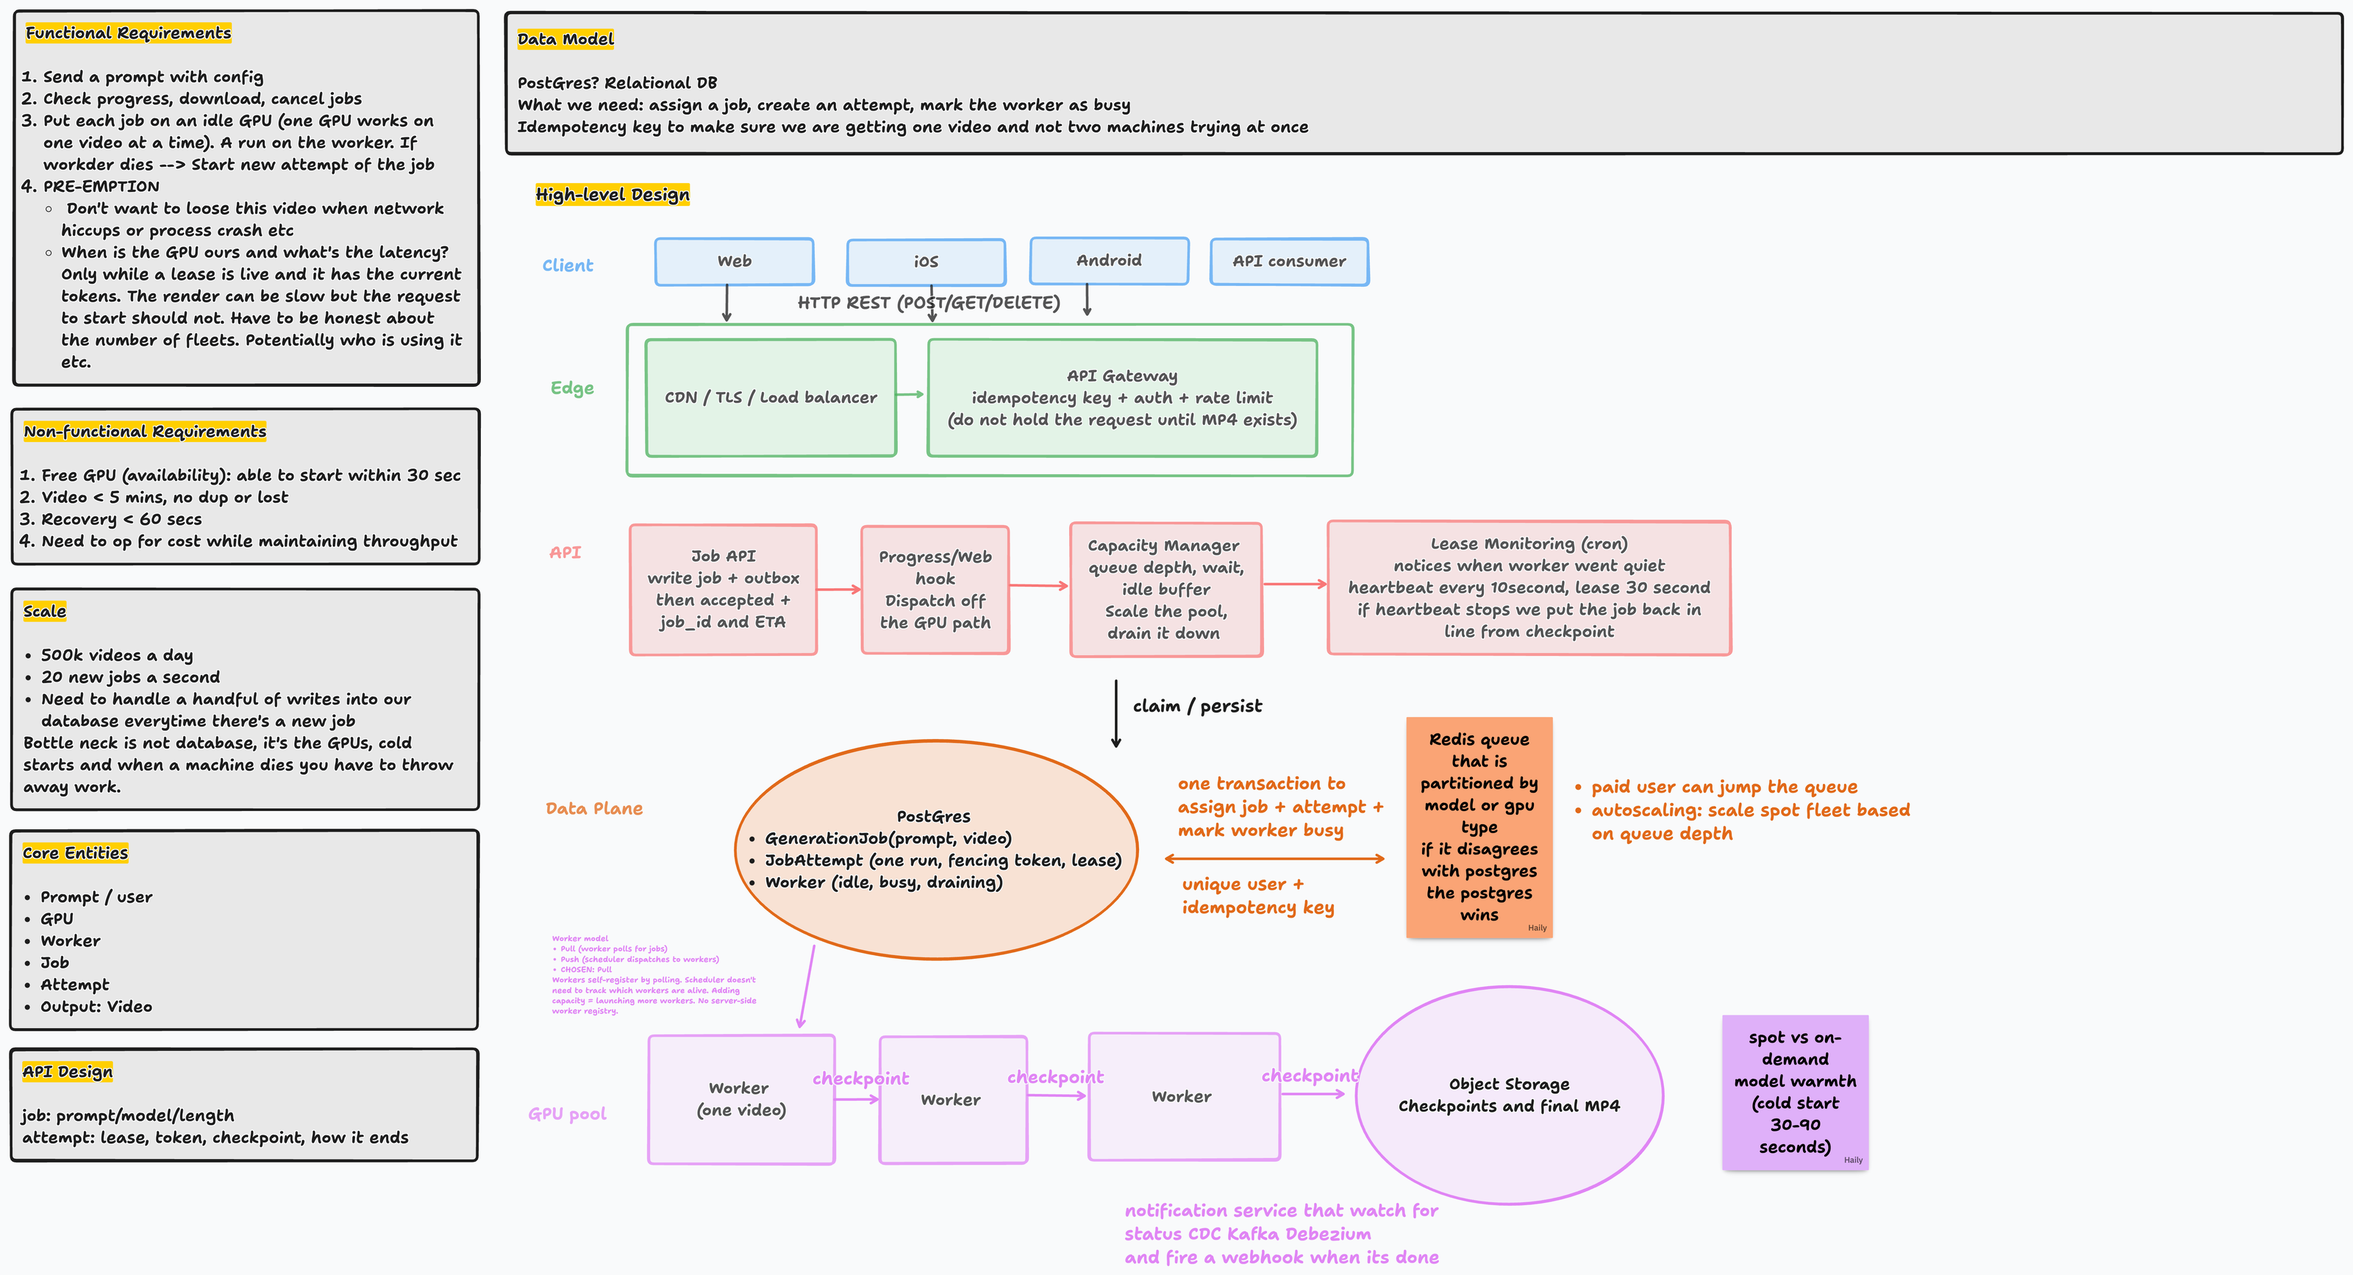
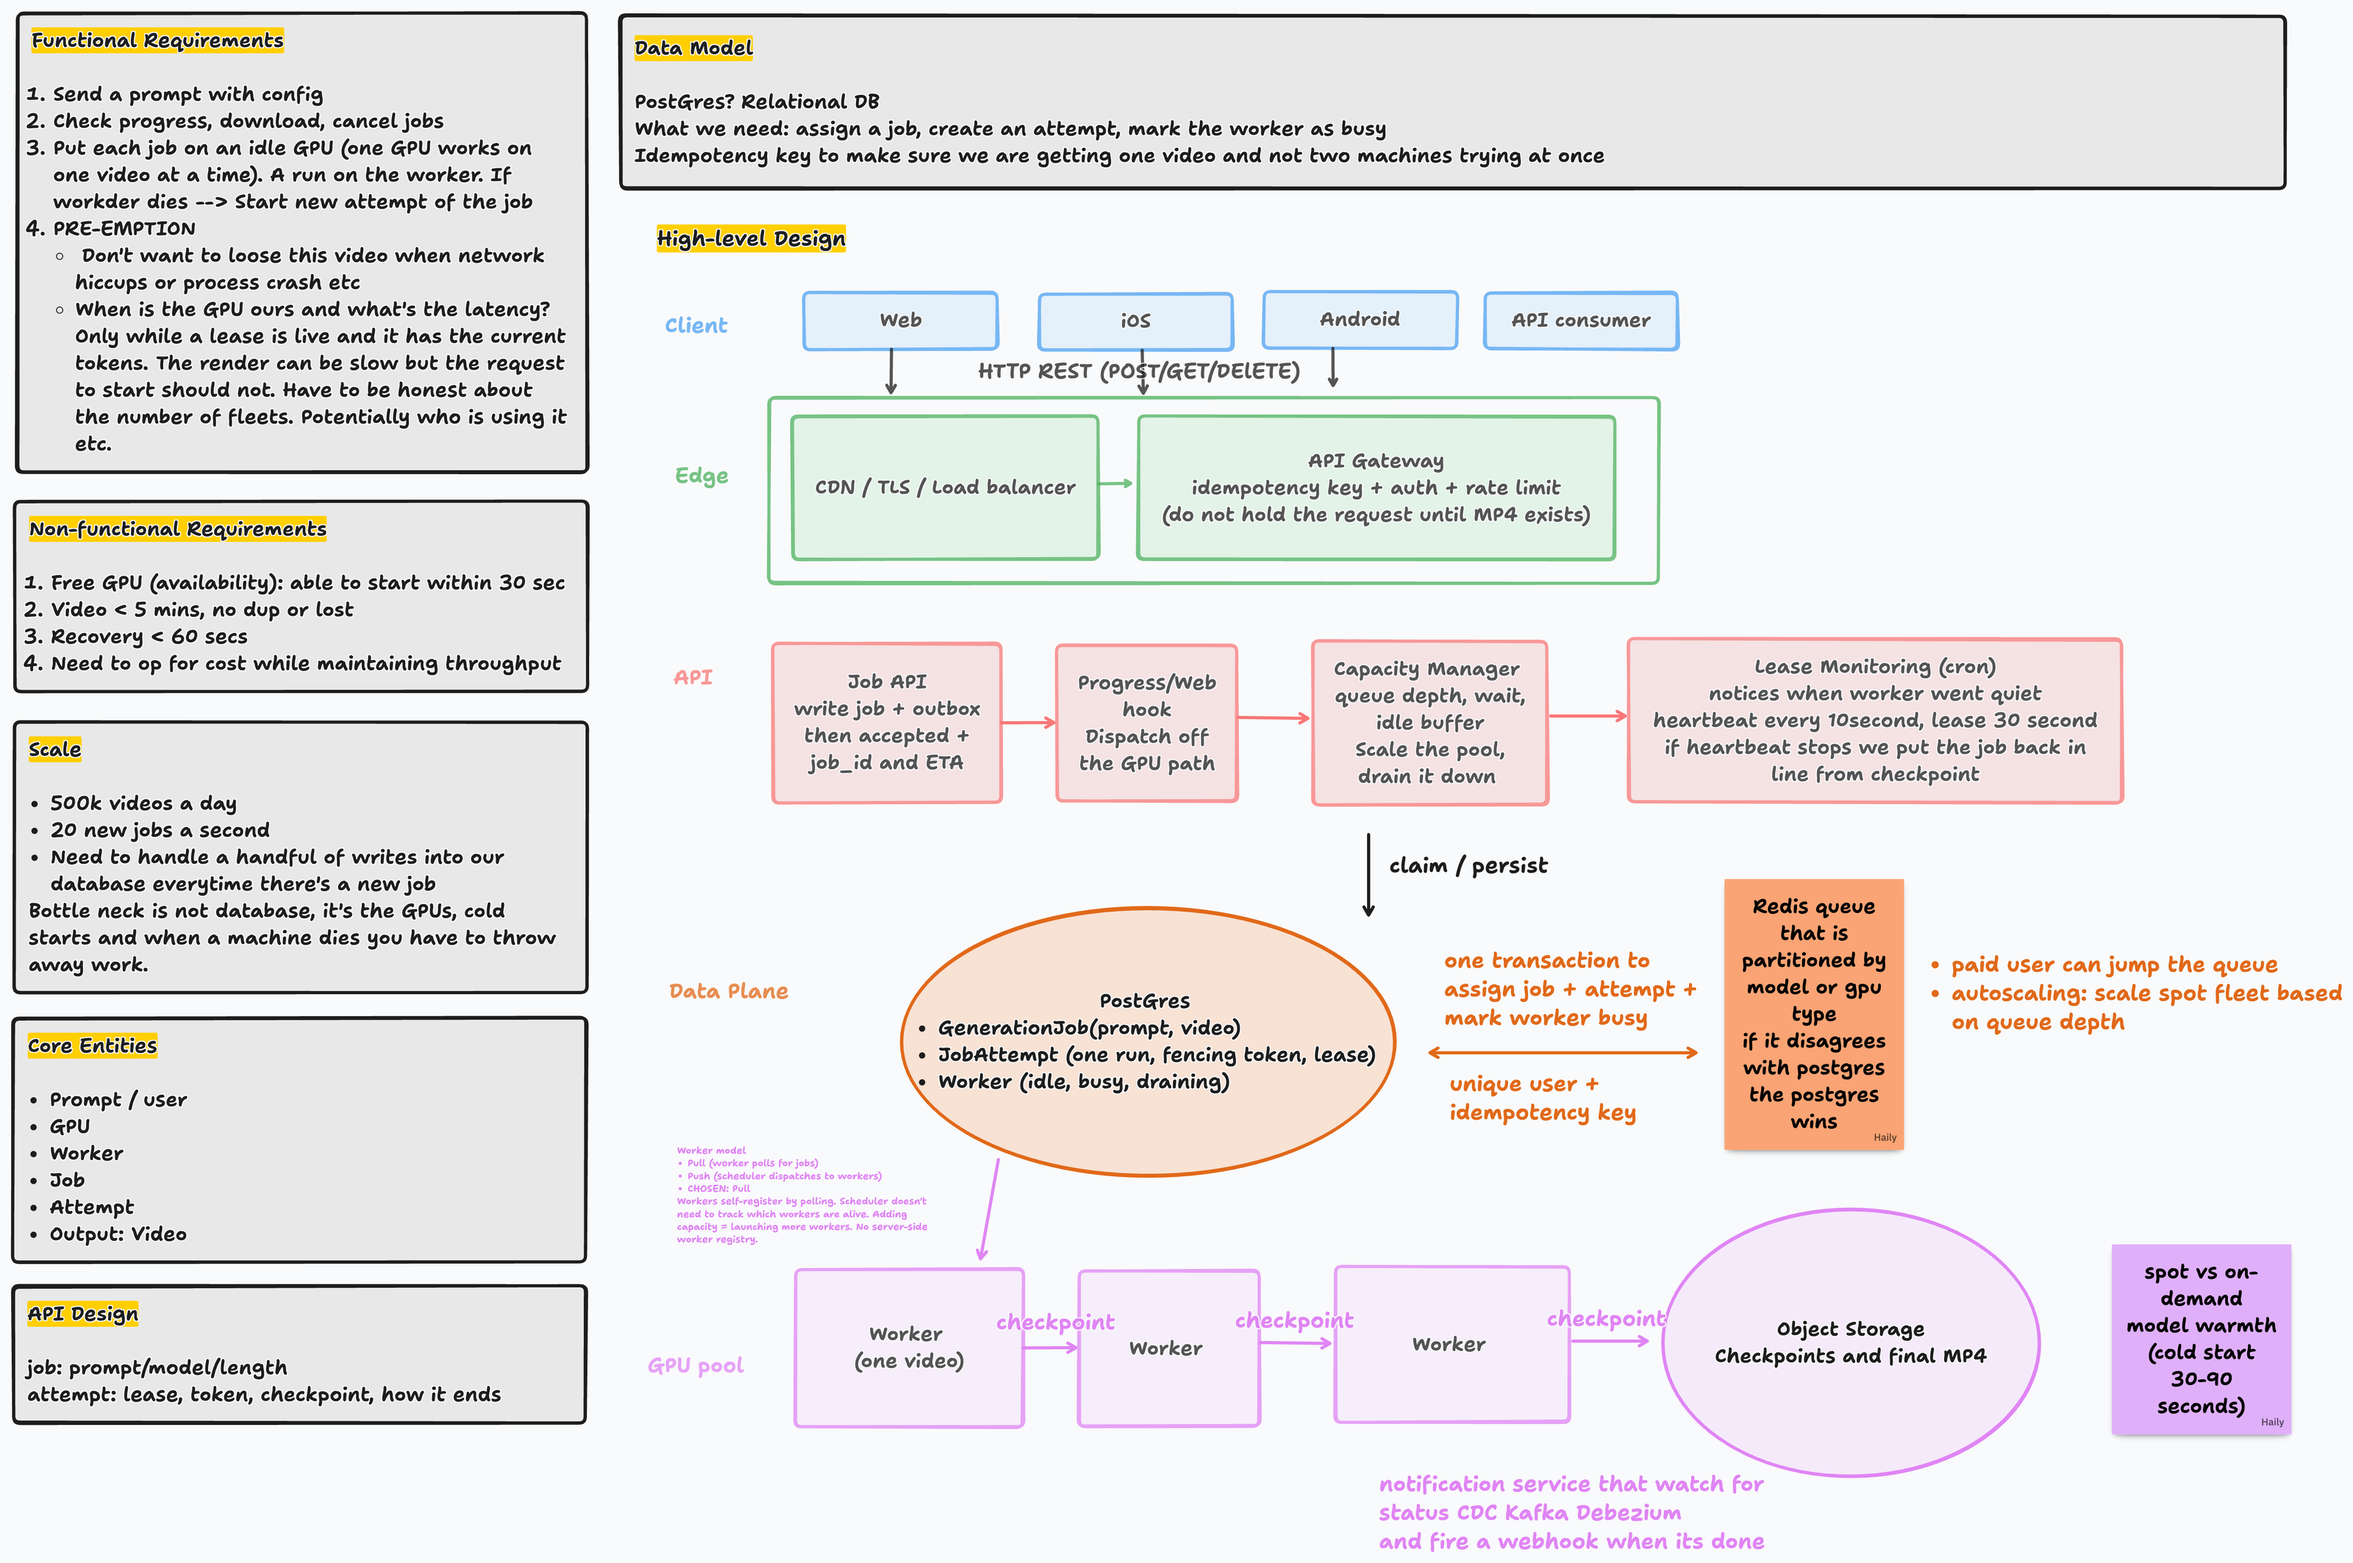
Publish the updated Sora whiteboard.

diff --git a/posts/how-id-schedule-a-video-generation-job/index.html b/posts/how-id-schedule-a-video-generation-job/index.html
@@ -18,7 +18,7 @@
 </button> </div> </header>  <article> <header class="article-header"> <h1>How I&#39;d design Sora</h1> <p class="post-meta">August 25, 2026</p> </header> <div class="prose"> <p>Sora looks like a prompt and an MP4. The product is: take the job, put it on a GPU, survive the GPU disappearing, and never run the same video twice.</p>
 <p>Generation takes minutes. The public request cannot sit open until the file exists. The pool is not a web fleet — one worker, one video, and the machine may be a spot instance that dies with a two-minute warning or with none. Prompt safety, billing, and moderation sit upstream. This note is the scheduler, the worker, and every way that pair fails.</p>
 <p>This is the order I’d teach it. One job so the words mean something. Then the records — a job is not an attempt — the API, and why we persist before we say accepted. After that: which queue, pull vs push, the lease and the fencing token, checkpoints, cancel, and what we do when there are no GPUs left. Last, the failure cases one by one. That last section is the design.</p>
-<p><a href="/images/sora-architecture.png"><img src="/images/sora-architecture.png" alt="Whiteboard for a Sora-like scheduler: requirements, job vs attempt, and a pull-based GPU pool with Postgres as the source of truth"></a></p>
+<p><a href="/images/sora-architecture.png?v=2"><img src="/images/sora-architecture.png?v=2" alt="Whiteboard for a Sora-like scheduler: requirements, job vs attempt, and a pull-based GPU pool with Postgres as the source of truth"></a></p>
 <hr>
 <h2 id="1-one-video-start-to-finish">1. One video, start to finish</h2>
 <p>Alice wants ten seconds, 720p, model <code>sora-v1</code>. “Drone shot over a snowy mountain at sunrise.”</p>
